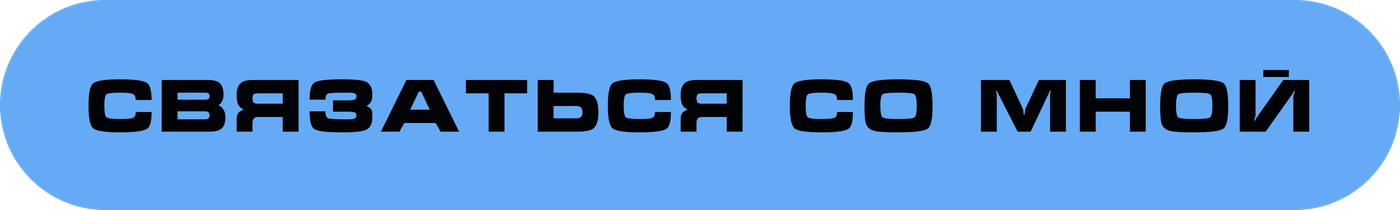
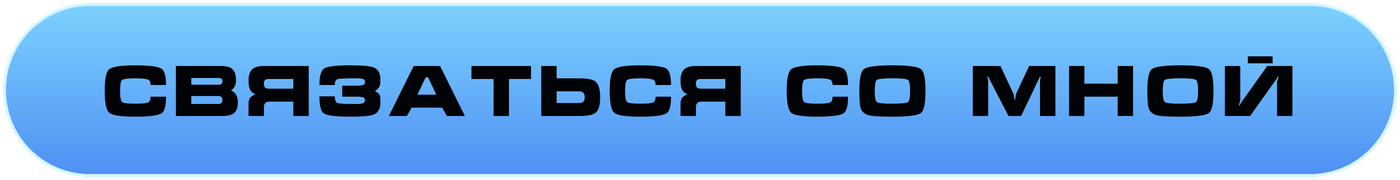
Add vivid contact and availability buttons

diff --git a/contact-widget.html b/contact-widget.html
@@ -14,8 +14,8 @@
     .contact-widget {
       position: relative;
       width: 100%;
-      min-height: 87px;
-      padding: 6px 8px;
+      min-height: 92px;
+      padding: 6px 0;
       font-family: "Montserrat", Arial, sans-serif;
       transition: min-height .28s ease;
     }
@@ -25,9 +25,9 @@
     .contact-open {
       position: relative;
       display: block;
-      width: min(100%, 500px);
+      width: min(100%, 620px);
+      height: clamp(62px, 12.9vw, 80px);
       min-height: 0;
-      aspect-ratio: 1400 / 210;
       margin: 0 auto;
       overflow: hidden;
       padding: 0;
@@ -35,7 +35,7 @@
       border-radius: 999px;
       color: #020306;
       background: transparent;
-      box-shadow: none;
+      box-shadow: 0 8px 26px rgba(42, 157, 255, .3), 0 0 18px rgba(112, 207, 255, .2);
       cursor: pointer;
       -webkit-tap-highlight-color: transparent;
       transition: transform .18s ease, filter .18s ease, box-shadow .18s ease;
@@ -79,7 +79,7 @@
     }
 
     .contact-open:hover::after { left: 112%; }
-    .contact-open:hover { filter: brightness(1.08); }
+    .contact-open:hover { filter: brightness(1.1) saturate(1.08); }
     .contact-open:active { transform: scale(.975); }
     .contact-open:focus-visible { outline: 2px solid #fff; outline-offset: 4px; }
 
@@ -258,7 +258,13 @@
       const widget = openButton.closest('.contact-widget');
       const modal = document.getElementById('contactModal');
       const closeButton = document.getElementById('contactClose');
-      const notifyHeight = height => window.parent.postMessage({ type: 'alex-contact-height', height }, '*');
+      const image = openButton.querySelector('.contact-open__image');
+      const widgetMode = new URLSearchParams(window.location.search).get('mode') === 'dates' ? 'dates' : 'contact';
+      if (widgetMode === 'dates') {
+        image.src = 'dates-button-micra.png';
+        image.alt = 'Узнать свободные даты';
+      }
+      const notifyHeight = height => window.parent.postMessage({ type: 'alex-contact-height', mode: widgetMode, height }, '*');
 
       const openModal = () => {
         modal.hidden = false;
@@ -272,14 +278,14 @@
         widget.classList.remove('is-open');
         window.setTimeout(() => { modal.hidden = true; }, 260);
         openButton.focus();
-        notifyHeight(87);
+        notifyHeight(92);
       };
 
       openButton.addEventListener('click', openModal);
       closeButton.addEventListener('click', closeModal);
       modal.addEventListener('click', event => { if (event.target === modal) closeModal(); });
       document.addEventListener('keydown', event => { if (event.key === 'Escape' && !modal.hidden) closeModal(); });
-      notifyHeight(87);
+      notifyHeight(92);
     })();
   </script>
 </body>